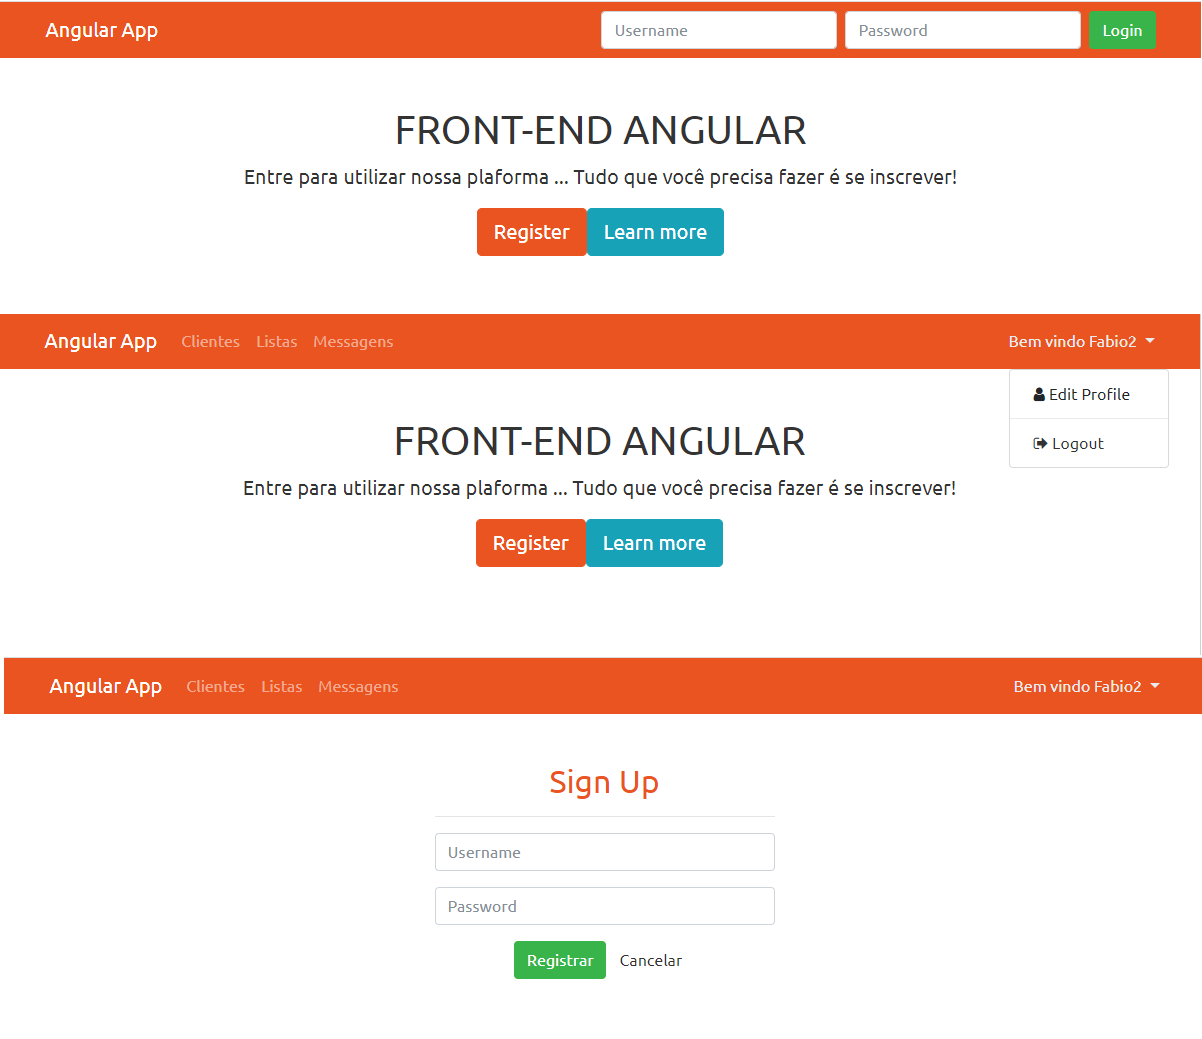
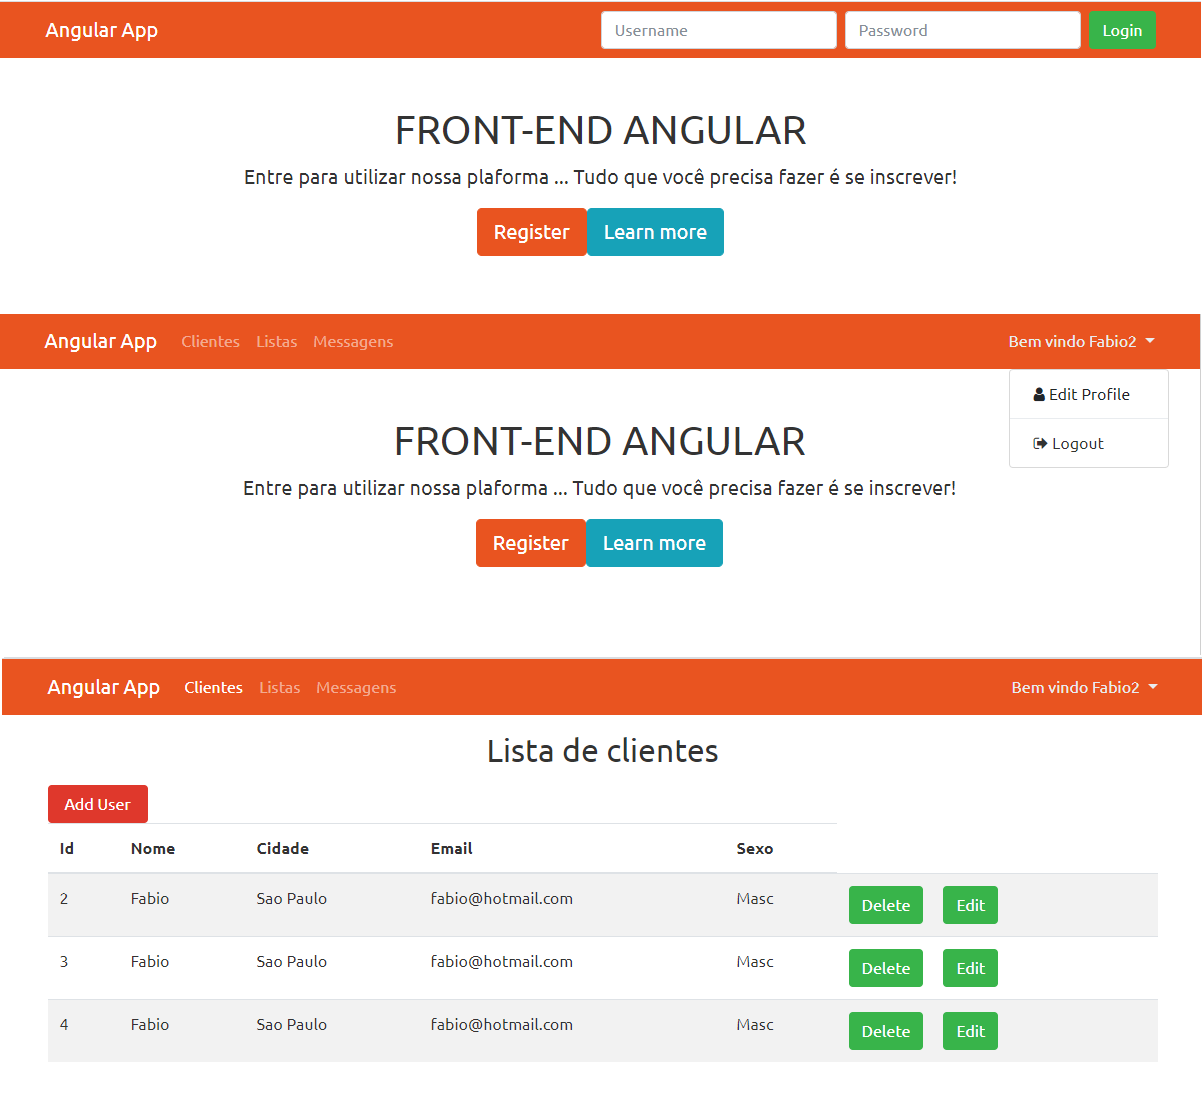
incluir funcao de listar e excluir clientes

diff --git a/src/app/member-list/member-list.component.ts b/src/app/member-list/member-list.component.ts
@@ -1,4 +1,7 @@
 import { Component, OnInit } from '@angular/core';
+import { ClienteService } from '../_services/cliente.service';
+import { AlertifyService } from '../_services/alertify.service';
+import { Cliente } from '../_models/cliente';
 
 @Component({
   selector: 'app-member-list',
@@ -6,10 +9,30 @@ import { Component, OnInit } from '@angular/core';
   styleUrls: ['./member-list.component.css']
 })
 export class MemberListComponent implements OnInit {
+  clientes: Cliente[];
 
-  constructor() { }
+  constructor(private clienteService: ClienteService, private alertify: AlertifyService
+    ) { }
 
   ngOnInit() {
+    this.loadClientes();
   }
 
-}
+  loadClientes() {
+  this.clienteService.getClientes().subscribe((clientes: Cliente[]) =>{
+  this.clientes = clientes;
+  }, error =>{
+    this.alertify.error(error);
+  });
+
+  }
+
+  deleteCliente(cliente: Cliente): void {
+    console.log(cliente.id);
+    this.clienteService.deleteCliente(cliente.id)
+      .subscribe( data => {
+        this.clientes = this.clientes.filter(u => u !== cliente);
+      });
+  }
+
+  }

diff --git a/src/app/_services/cliente.service.ts b/src/app/_services/cliente.service.ts
@@ -1,0 +1,31 @@
+import { Injectable } from '@angular/core';
+import { environment } from 'src/environments/environment';
+import { HttpClient, HttpHeaders } from '@angular/common/http';
+import { Observable } from 'rxjs';
+import { Cliente } from '../_models/cliente';
+
+const httpOptions = {
+  headers: new HttpHeaders({
+    Authorization: 'Bearer ' + localStorage.getItem('token')
+  })
+  };
+
+@Injectable({
+  providedIn: 'root'
+})
+export class ClienteService {
+  baseUrl = environment.apiUrl;
+  constructor(private http: HttpClient) { }
+
+  getClientes(): Observable<Cliente[]> {
+    return this.http.get<Cliente[]>(this.baseUrl + 'Cliente', httpOptions);
+  }
+
+  getCliente(id): Observable<Cliente[]> {
+    return this.http.get<Cliente[]>(this.baseUrl + 'Cliente/' + id, httpOptions);
+  }
+
+  deleteCliente(id): Observable<Cliente[]> {
+    return this.http.delete<Cliente[]>(this.baseUrl + 'Cliente/' + id, httpOptions);
+  }
+}

diff --git a/src/app/member-list/member-list.component.html b/src/app/member-list/member-list.component.html
@@ -1,3 +1,30 @@
-<p>
-  member-list works!
-</p>
+<div class="text-center mt-3">
+  <h2>Lista de clientes</h2>
+</div>
+
+<div class="container mt-3">
+  <button class="btn btn-danger" style="width:100px"> Add User</button>
+  <table class="table table-striped">
+    <thead>
+    <tr>
+      <th class="hidden">Id</th>
+      <th>Nome</th>
+      <th>Cidade</th>
+      <th>Email</th>
+      <th>Sexo</th>
+      <th></th>
+    </tr>
+    </thead>
+    <tbody>
+    <tr *ngFor="let cliente of clientes">
+      <td class="hidden">{{cliente.id}}</td>
+      <td>{{cliente.nome}}</td>
+      <td>{{cliente.cidade}}</td>
+      <td>{{cliente.email}}</td>
+      <td>{{cliente.sexo}}</td>
+      <td><button class="btn btn-success" (click)="deleteCliente(cliente)" > Delete</button>
+        <button class="btn btn-success"  style="margin-left: 20px;"> Edit</button></td>
+    </tr>
+    </tbody>
+  </table>
+</div>

diff --git a/src/app/_services/auth.service.ts b/src/app/_services/auth.service.ts
@@ -2,6 +2,7 @@ import { Injectable } from '@angular/core';
 import { HttpClient } from '@angular/common/http';
 import { map } from 'rxjs/operators';
 import { JwtHelperService } from '@auth0/angular-jwt';
+import { environment } from 'src/environments/environment';
 
 @Injectable({
   providedIn: 'root'
@@ -9,7 +10,7 @@ import { JwtHelperService } from '@auth0/angular-jwt';
 export class AuthService {
 
 constructor(private http: HttpClient) {}
-baseUrl = 'https://localhost:5002/api/' + 'Auth/';
+baseUrl = environment.apiUrl + 'Auth/';
 jwtHelper = new JwtHelperService();
 decodedToken: any;
 

diff --git a/src/app/_services/cliente.service.spec.ts b/src/app/_services/cliente.service.spec.ts
@@ -1,0 +1,16 @@
+/* tslint:disable:no-unused-variable */
+
+import { TestBed, async, inject } from '@angular/core/testing';
+import { ClienteService } from './cliente.service';
+
+describe('Service: Cliente', () => {
+  beforeEach(() => {
+    TestBed.configureTestingModule({
+      providers: [ClienteService]
+    });
+  });
+
+  it('should ...', inject([ClienteService], (service: ClienteService) => {
+    expect(service).toBeTruthy();
+  }));
+});

diff --git a/src/environments/environment.ts b/src/environments/environment.ts
@@ -3,7 +3,8 @@
 // The list of file replacements can be found in `angular.json`.
 
 export const environment = {
-  production: false
+  production: false,
+  apiUrl: 'http://localhost:5003/api/'
 };
 
 /*

diff --git a/src/app/_models/cliente.ts b/src/app/_models/cliente.ts
@@ -1,0 +1,7 @@
+export interface Cliente {
+    id: number;
+    nome: string;
+    cidade: string;
+    email: string;
+    sexo: string;
+}

diff --git a/README.md b/README.md
@@ -29,10 +29,10 @@ Execute `ng serve` de um servidor dev. Navegue para `http://localhost:4200/`. O 
 - angular2-switcher from infinity1207
 
 ### Bibliotecas importadas
-npm i alertifyjs
-npm i @auth0/angular-jwt,
-npm i ngx-bootstrapp --save
-npm i bootswatch
+- npm i alertifyjs
+- npm i @auth0/angular-jwt,
+- npm i ngx-bootstrapp --save
+- npm i bootswatch
 
 ## Suporte
 
